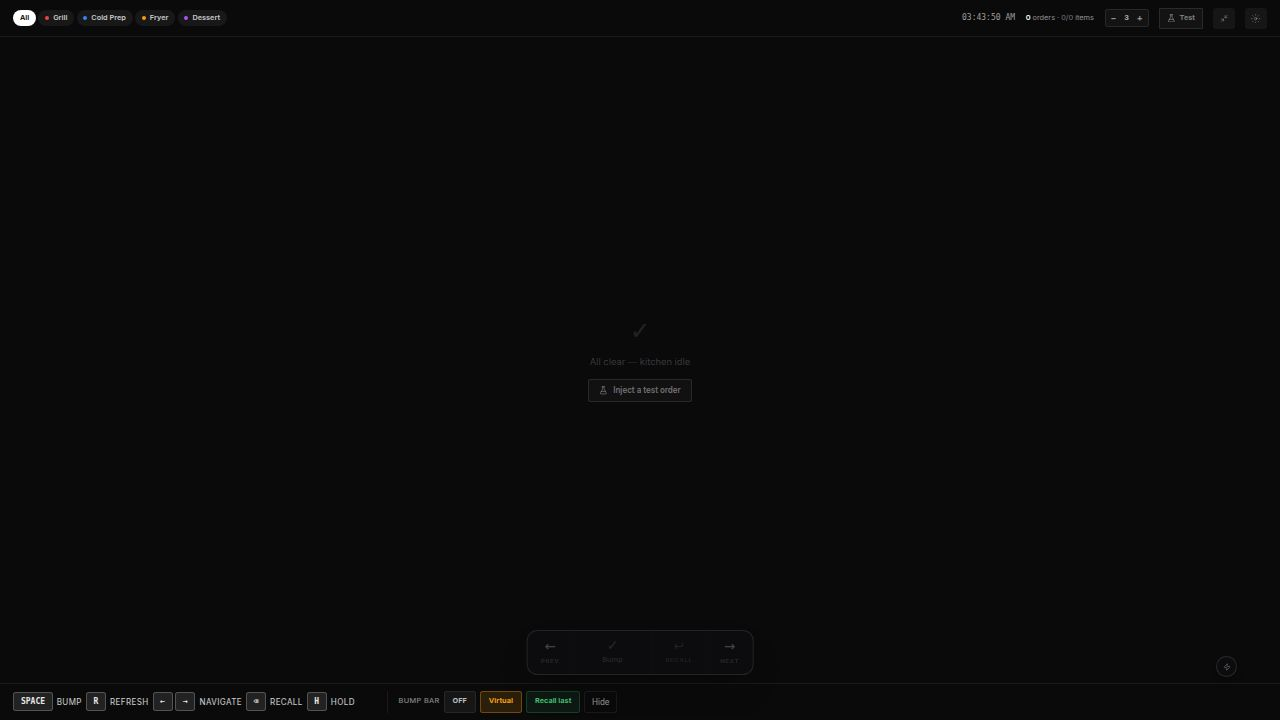
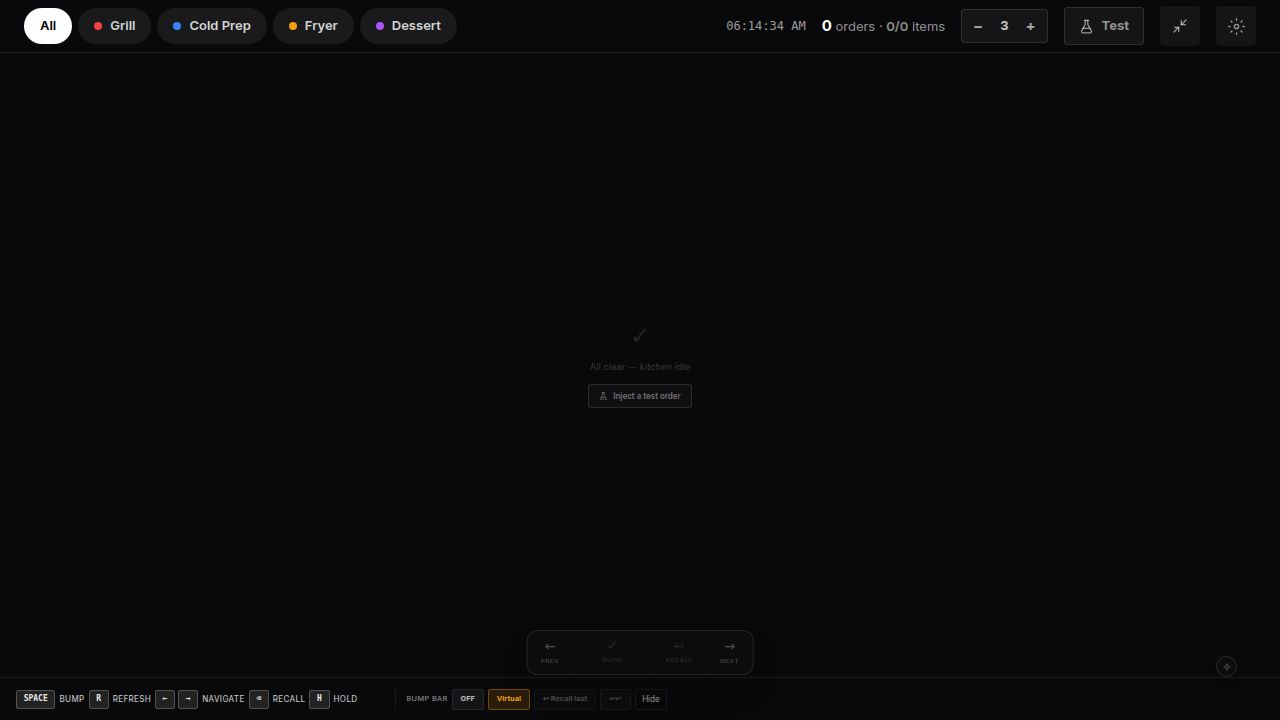
Add live health status page for all POS integrations
Update API route to include webhook secret configuration status and modify the health page UI to display this information alongside existing integration health metrics.

Replit-Commit-Author: Agent
Replit-Commit-Session-Id: b1d019c3-033e-473d-a585-4dcab55ead26
Replit-Commit-Checkpoint-Type: full_checkpoint
Replit-Commit-Event-Id: 7873d1fb-1adb-48c5-bd30-a566301670b5
Replit-Commit-Screenshot-Url: https://storage.googleapis.com/screenshot-production-us-central1/90dcdbf0-0649-4dd1-be85-010ba88aa30c/b1d019c3-033e-473d-a585-4dcab55ead26/ViIqWtX
Replit-Helium-Checkpoint-Created: true

diff --git a/artifacts/api-server/src/routes/integrations.ts b/artifacts/api-server/src/routes/integrations.ts
@@ -365,12 +365,35 @@ router.get("/integrations/health", async (req, res): Promise<void> => {
         .where(gte(integrationEventsTable.createdAt, since))
         .orderBy(desc(integrationEventsTable.createdAt));
 
-  type SourceStat = { total: number; success: number; errors: number; ignored: number; lastEventAt: string | null };
+  type SourceStat = {
+    total: number;
+    success: number;
+    errors: number;
+    ignored: number;
+    lastEventAt: string | null;
+    webhookSecretConfigured: boolean;
+  };
   const bySource = new Map<string, SourceStat>();
+
+  const secretMap: Record<string, boolean> = {
+    square: !!process.env.SQUARE_WEBHOOK_SECRET,
+    toast: !!process.env.TOAST_WEBHOOK_SECRET,
+    clover: !!process.env.CLOVER_WEBHOOK_SECRET,
+    lightspeed: !!process.env.LIGHTSPEED_WEBHOOK_SECRET,
+    volante: !!process.env.VOLANTE_WEBHOOK_SECRET,
+    generic: true,
+  };
 
   for (const row of rows) {
     if (!bySource.has(row.source)) {
-      bySource.set(row.source, { total: 0, success: 0, errors: 0, ignored: 0, lastEventAt: null });
+      bySource.set(row.source, {
+        total: 0,
+        success: 0,
+        errors: 0,
+        ignored: 0,
+        lastEventAt: null,
+        webhookSecretConfigured: secretMap[row.source] ?? false,
+      });
     }
     const s = bySource.get(row.source)!;
     s.total++;
@@ -383,7 +406,11 @@ router.get("/integrations/health", async (req, res): Promise<void> => {
   const sources = Object.fromEntries(
     [...bySource.entries()].map(([source, stat]) => [
       source,
-      { ...stat, successRate: stat.total > 0 ? Math.round((stat.success / stat.total) * 100) : null },
+      {
+        ...stat,
+        successRate: stat.total > 0 ? Math.round((stat.success / stat.total) * 100) : null,
+        webhookSecretConfigured: secretMap[source] ?? stat.webhookSecretConfigured,
+      },
     ])
   );
 

diff --git a/artifacts/kds/src/pages/integrations-health.tsx b/artifacts/kds/src/pages/integrations-health.tsx
@@ -11,6 +11,7 @@ interface SourceStat {
   ignored: number;
   successRate: number | null;
   lastEventAt: string | null;
+  webhookSecretConfigured: boolean;
 }
 
 interface HealthResponse {
@@ -40,7 +41,7 @@ const POS_META: Record<string, { name: string; logo: string; color: string }> = 
   test:       { name: "Test Injector",    logo: "⚗", color: "#64748b" },
 };
 
-const ALL_SOURCES = ["square", "toast", "clover", "lightspeed", "volante", "generic"];
+const ALL_SOURCES = ["volante", "square", "toast", "clover", "lightspeed", "generic"];
 
 function meta(src: string) {
   return POS_META[src] ?? { name: src, logo: "⬡", color: "#6b7280" };
@@ -124,6 +125,7 @@ function SourceCard({
   const succ   = stat?.success ?? 0;
   const errs   = stat?.errors  ?? 0;
   const ign    = stat?.ignored ?? 0;
+  const secret = stat?.webhookSecretConfigured ?? false;
 
   return (
     <div className="flex flex-col gap-3 p-4 rounded-xl border transition-all"
@@ -187,6 +189,13 @@ function SourceCard({
         <span className="text-[9px] text-white/25">Last event</span>
         <span className="text-[9px] text-white/50 font-mono">
           {stat?.lastEventAt ? timeAgo(stat.lastEventAt) : "—"}
+        </span>
+      </div>
+
+      <div className="flex items-center justify-between">
+        <span className="text-[9px] text-white/25">Webhook secret</span>
+        <span className="text-[9px] font-semibold" style={{ color: secret ? "#22c55e" : "#ef4444" }}>
+          {secret ? "Configured" : "Missing"}
         </span>
       </div>
     </div>
@@ -380,7 +389,7 @@ export default function IntegrationsHealthPage() {
         {/* ── POS Health Grid ── */}
         <div>
           <p className="text-[10px] font-bold uppercase tracking-[0.18em] text-white/25 mb-3">
-            POS Systems — {healthData?.windowHours ?? 24}h summary
+            POS Systems — live status, last ping, and secret health
           </p>
           <div className="grid gap-3" style={{ gridTemplateColumns: "repeat(auto-fill, minmax(240px, 1fr))" }}>
             {ALL_SOURCES.map(src => (